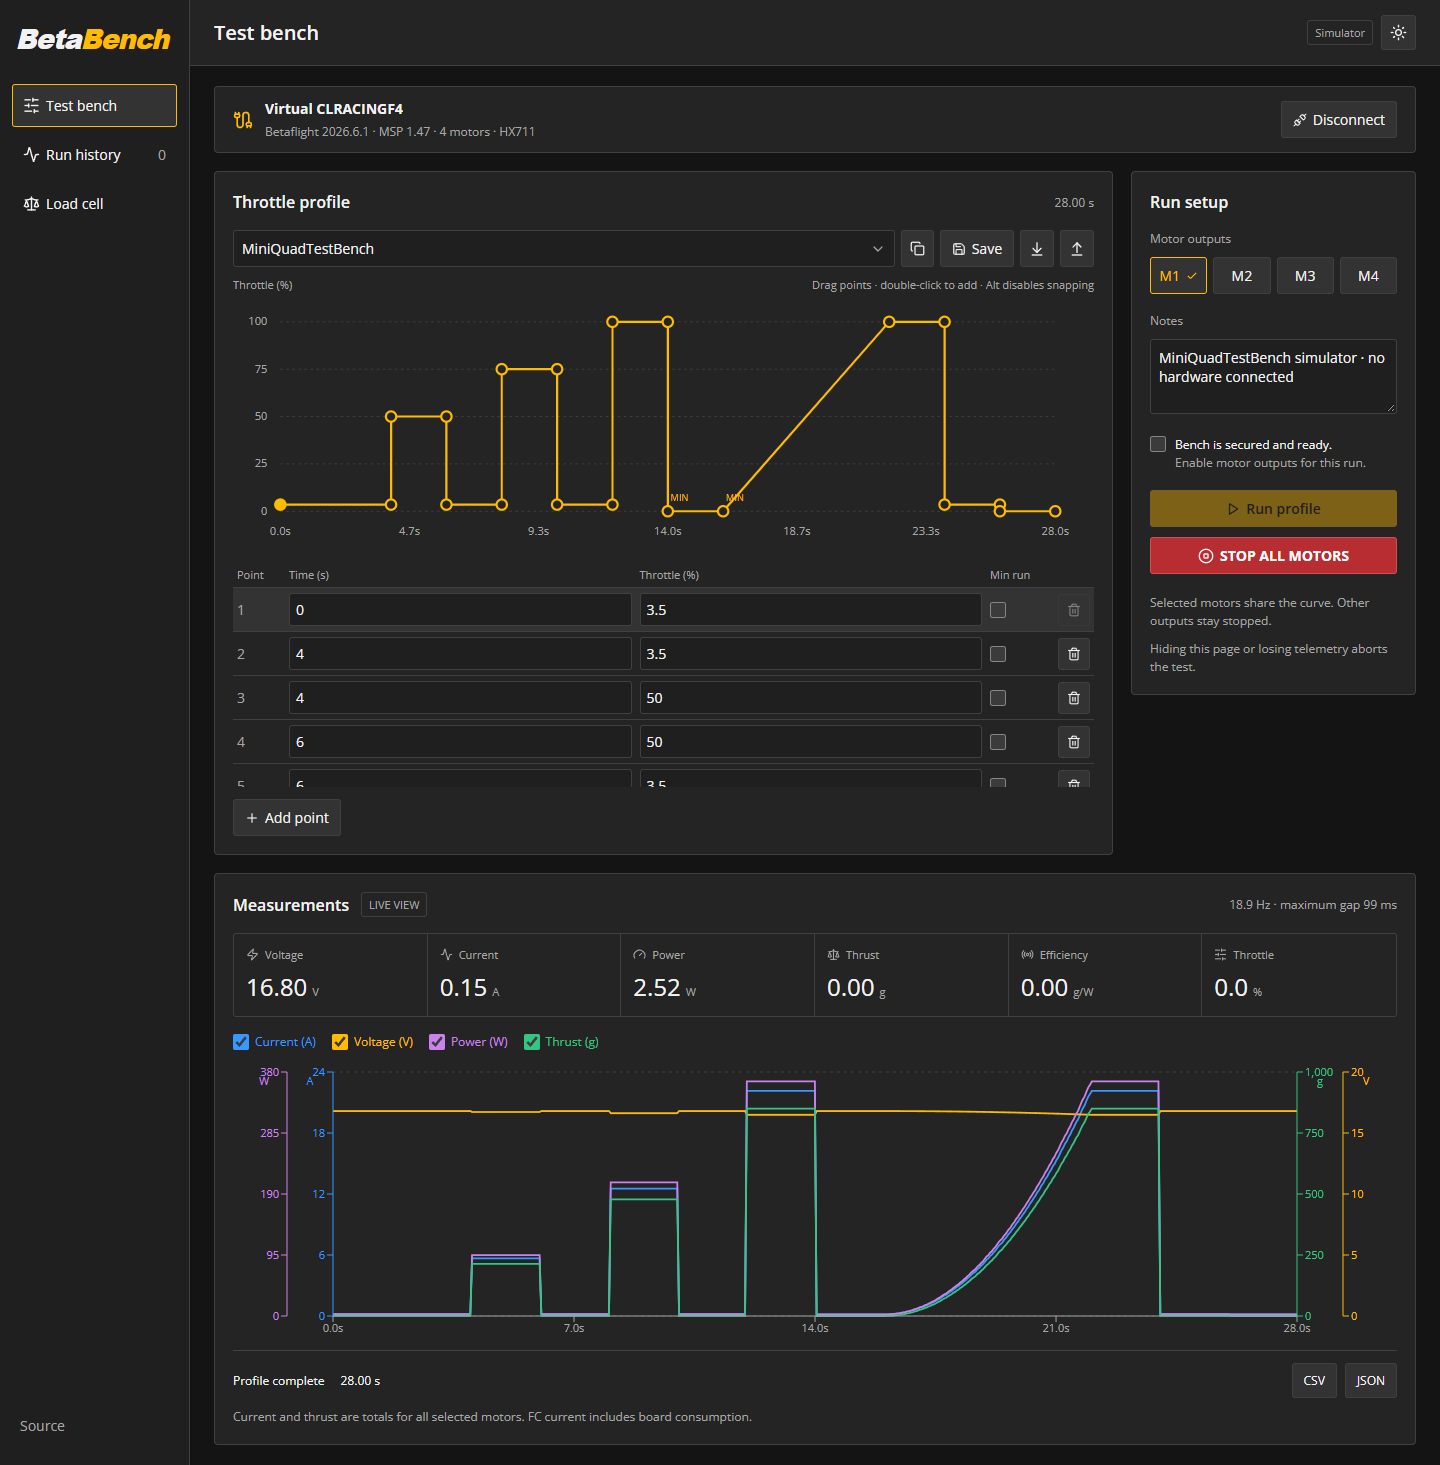
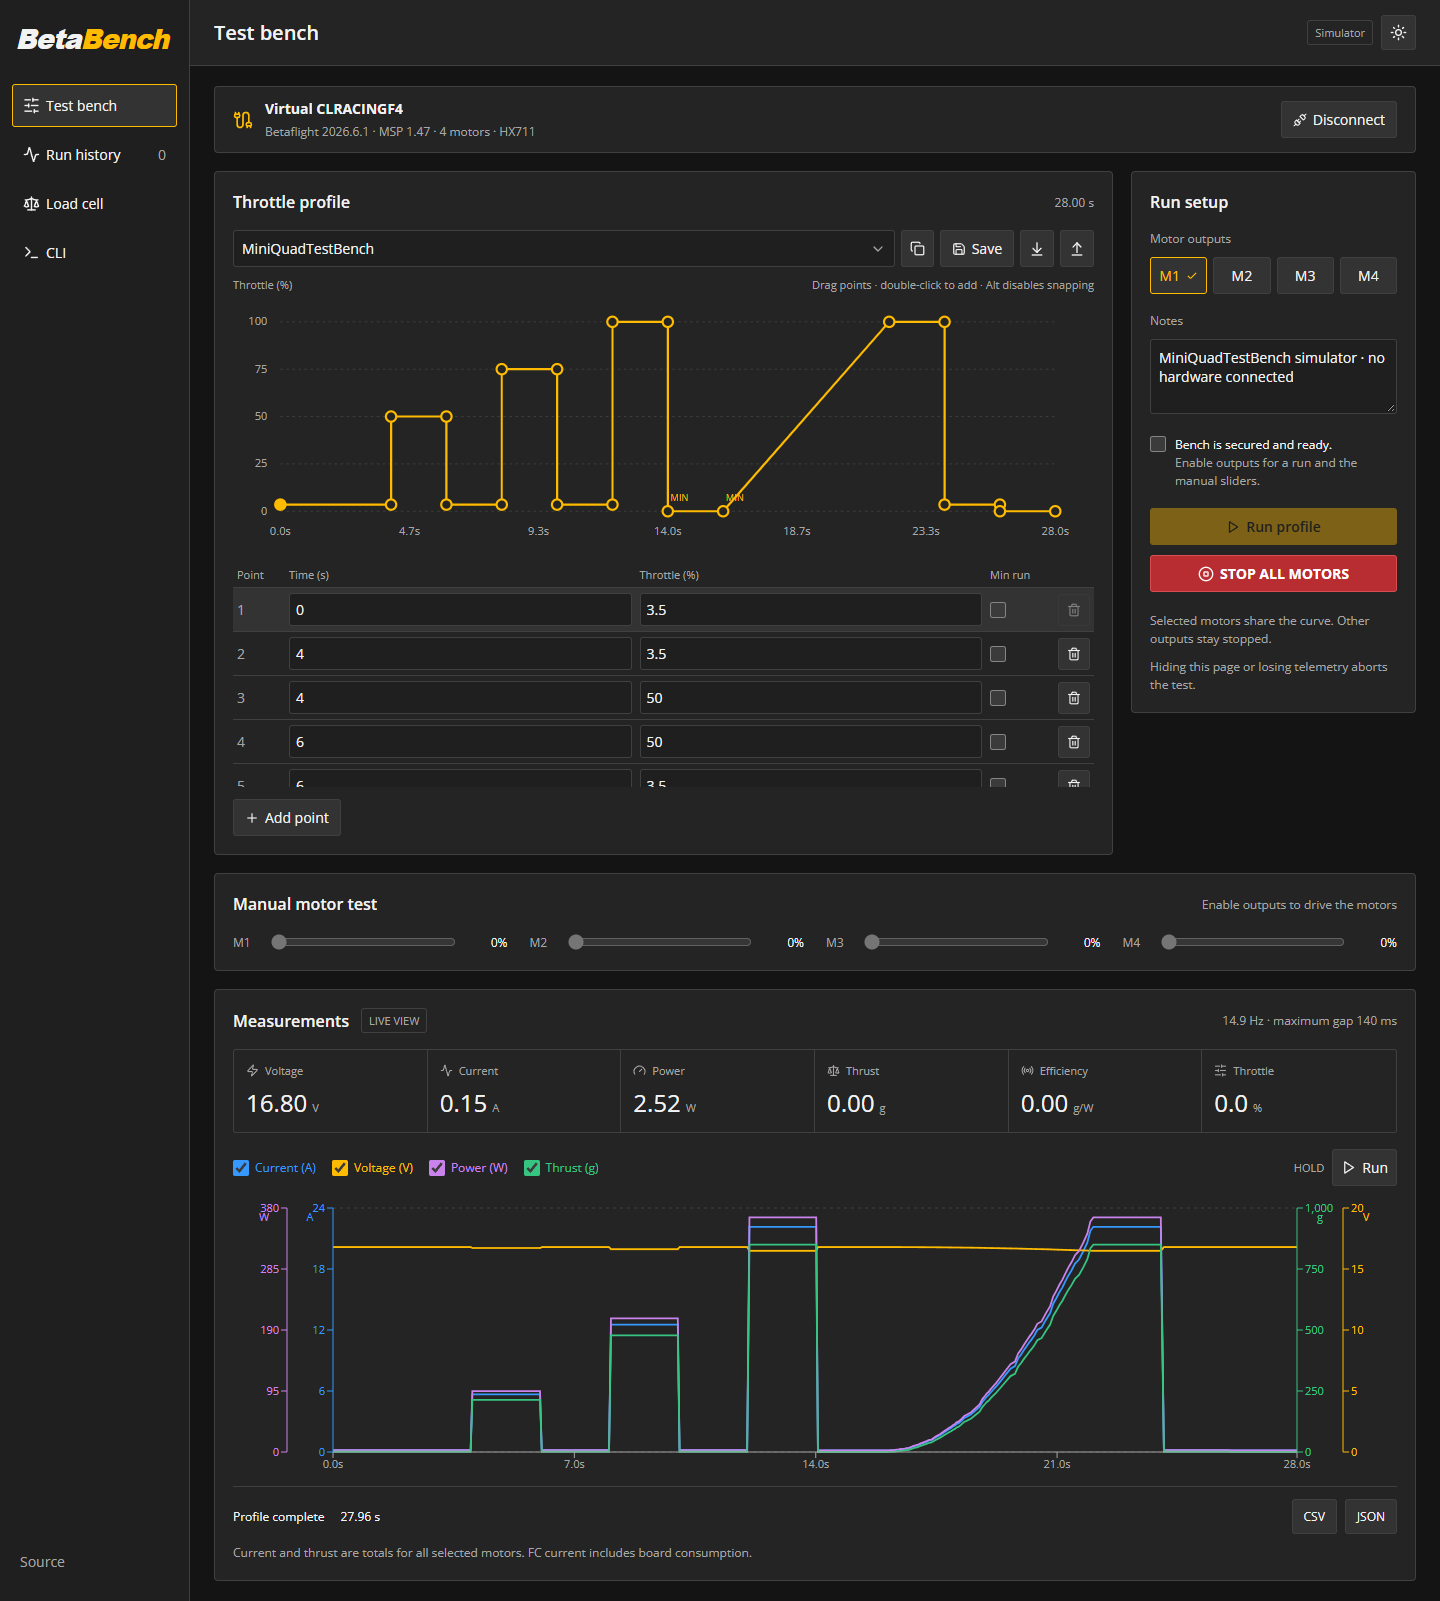
Refresh README screenshots for the current UI
Regenerate the test bench and load-cell captures with the manual motor panel, the held measurement trace and the HX711 Detect button, and add a CLI session capture to the Use section.

diff --git a/README.md b/README.md
@@ -21,6 +21,10 @@ The measurements graph plots live telemetry as soon as a device is connected. St
 
 **CLI** opens a real Betaflight CLI session over the same USB connection, the way Configurator's CLI tab does, so you can read `diff`/`dump`, change settings, and save without leaving the browser. The FC pauses telemetry and motor control while the session is open, and arming stays disabled until it reboots.
 
+![BetaBench running a CLI session over MSP and printing the flight controller's resource map](docs/images/cli.png)
+
+_Simulator CLI session listing the FC resource map; no hardware connected._
+
 The app requires Betaflight MSP API 1.42+ and conventional DShot150/300/600. Reversible/3D and inverted motor outputs are rejected. It reads the configured FC voltage/current sources; accurate electrical measurements require the FC sensors to be connected and calibrated. Shared current and thrust represent the selected motors together, including board consumption. Optional RPM and ESC temperature depend on configured telemetry support.
 
 **Betaflight retains its last motor-test throttle after a browser crash or lost USB connection.** Keep a physical power cutoff available. Browser scheduling targets 50 Hz and is not a real-time control guarantee; measured rate and maximum telemetry gap appear in the UI. Hidden pages, command delays, stale telemetry, serial failures, and storage failures abort a run. Reconnection never resumes it.
